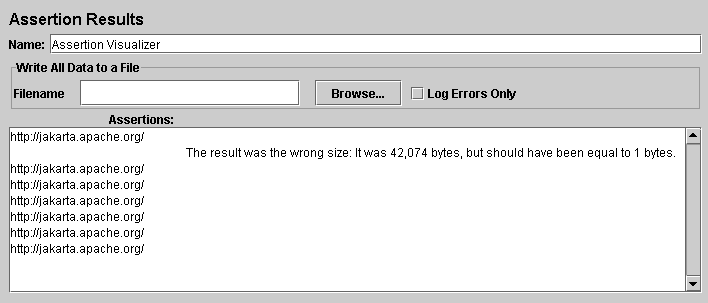
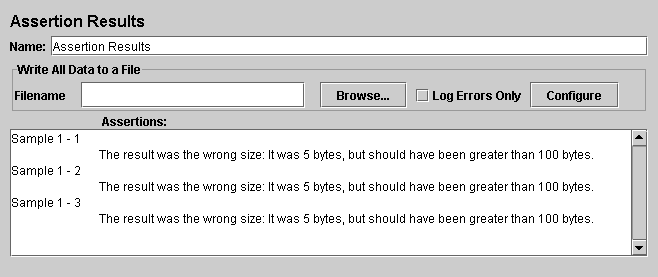
Assertion Result now show Label always
git-svn-id: https://svn.apache.org/repos/asf/jakarta/jmeter/branches/rel-2-1@397997 13f79535-47bb-0310-9956-ffa450edef68

Changed region(s): [[0.0, 0.0289, 1.0, 0.9819]]

diff --git a/src/components/org/apache/jmeter/visualizers/AssertionVisualizer.java b/src/components/org/apache/jmeter/visualizers/AssertionVisualizer.java
@@ -1,6 +1,5 @@
-// $Header$
 /*
- * Copyright 2001-2004 The Apache Software Foundation.
+ * Copyright 2001-2004,2006 The Apache Software Foundation.
  *
  * Licensed under the Apache License, Version 2.0 (the "License");
  * you may not use this file except in compliance with the License.
@@ -52,12 +51,7 @@ public class AssertionVisualizer extends AbstractVisualizer implements Clearable
 
 	public void add(SampleResult sample) {
 		StringBuffer sb = new StringBuffer(100);
-		String sd = sample.getSamplerData();
-		if (null != sd) {
-			sb.append(sd);
-		} else {
-			sb.append(sample.getSampleLabel());
-		}
+		sb.append(sample.getSampleLabel());
 		sb.append(getAssertionResult(sample));
 		sb.append("\n");
 		synchronized (textArea) {
@@ -77,7 +71,7 @@ public class AssertionVisualizer extends AbstractVisualizer implements Clearable
 				AssertionResult item = assertionResults[i];
 
 				if (item.isFailure() || item.isError()) {
-					display.append("\n\t\t");
+					display.append("\n\t"); // $NON-NLS-1$
 					display.append(item.getFailureMessage());
 				}
 			}
